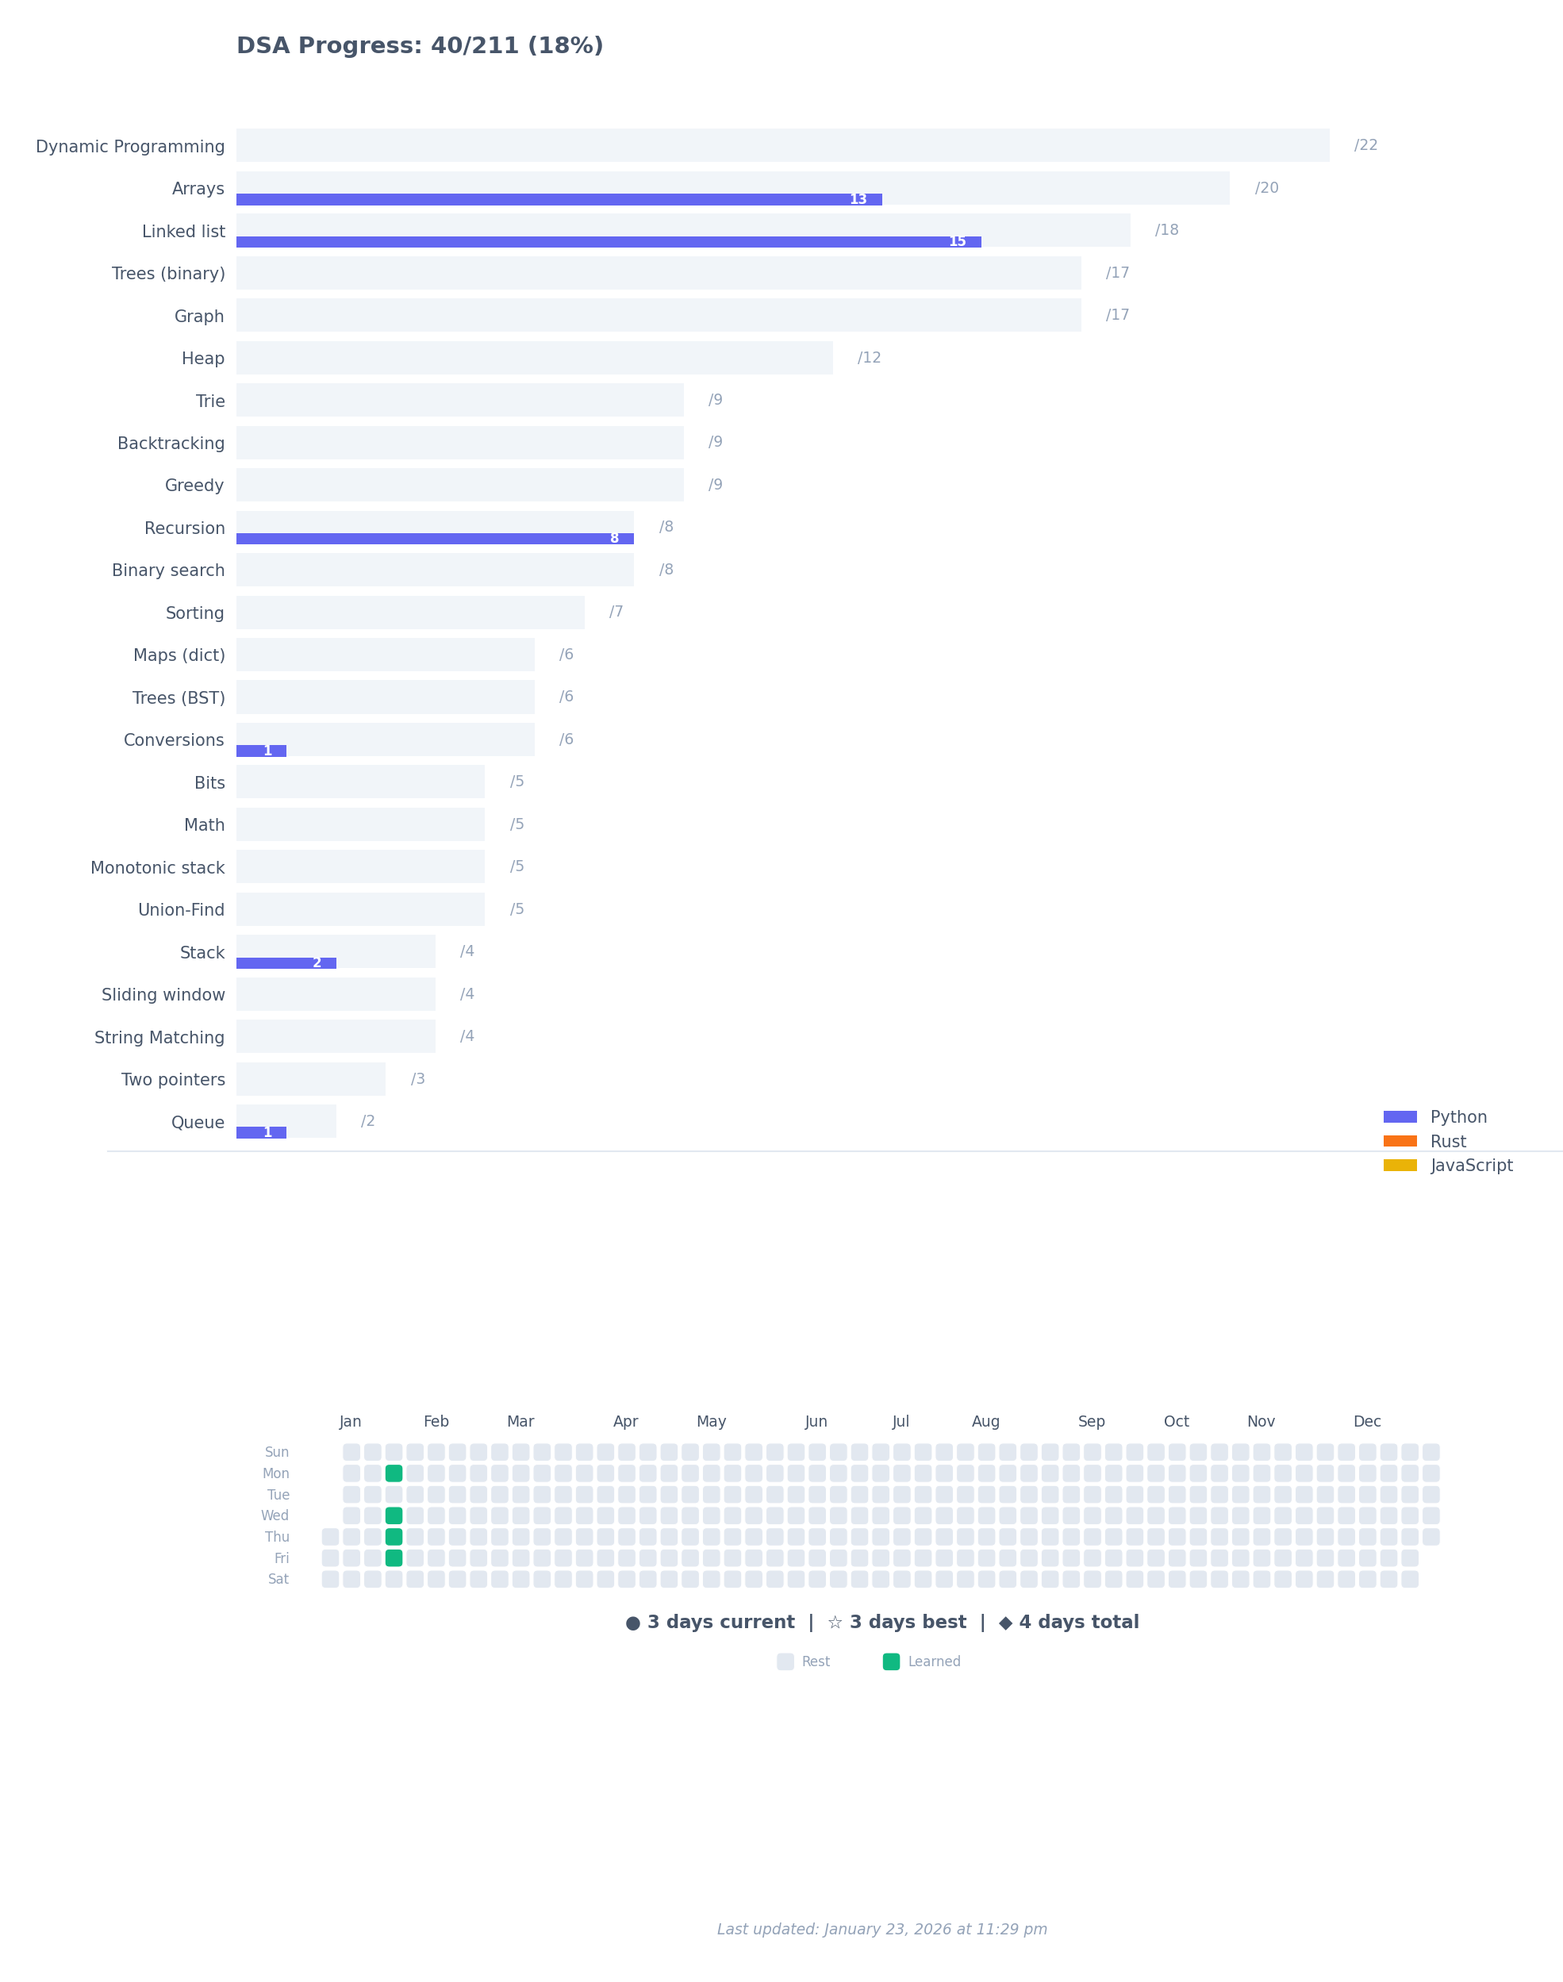
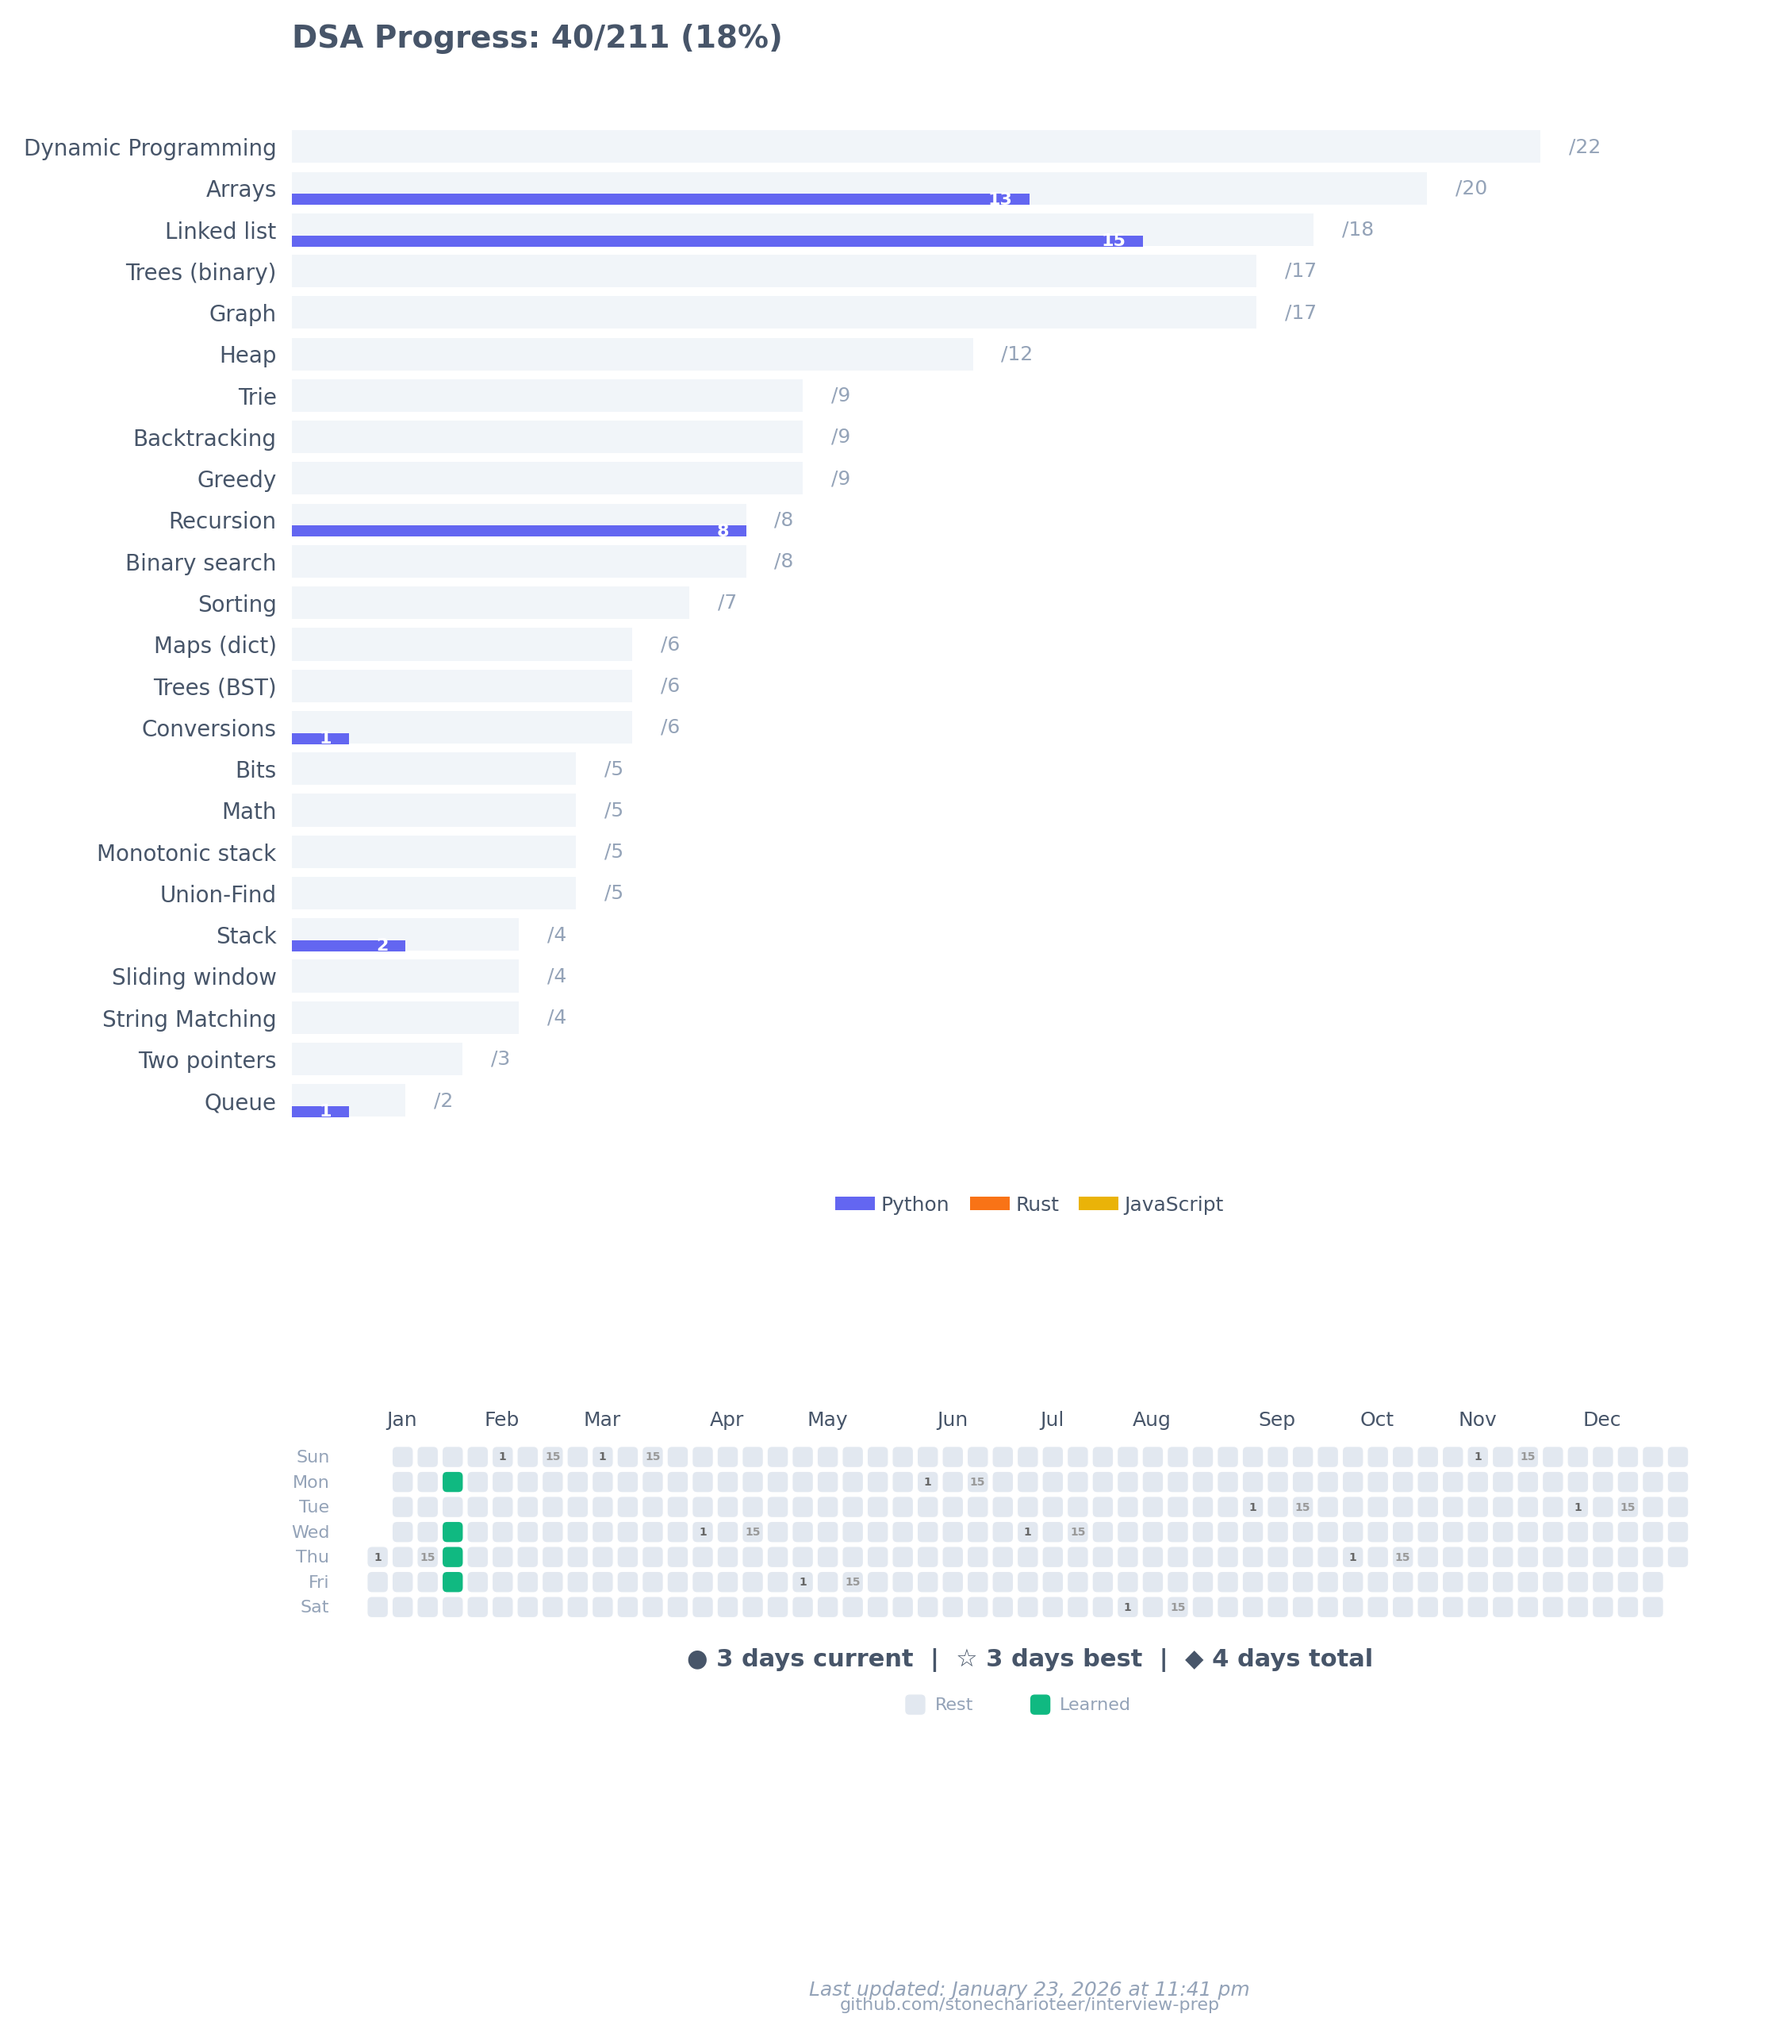
feat: add progress image and script

diff --git a/scripts/progress_calendar.py b/scripts/progress_calendar.py
@@ -140,11 +140,11 @@ def generate_progress_chart(topics: dict, commit_dates: set, output_path: Path, 
     rust_done = [t[1]["rust"] for t in sorted_topics]
     js_done = [t[1]["js"] for t in sorted_topics]
 
-    # Create figure
-    fig = plt.figure(figsize=(14, max(14, len(topic_names) * 0.6 + 6)))
+    # Create figure - tighter layout
+    fig = plt.figure(figsize=(12, max(12, len(topic_names) * 0.45 + 5)))
     fig.patch.set_facecolor("white")
 
-    gs = fig.add_gridspec(3, 1, height_ratios=[len(topic_names) * 1.4, 10, 1], hspace=0.4)
+    gs = fig.add_gridspec(3, 1, height_ratios=[len(topic_names) * 1.2, 19, 0.8], hspace=0.08)
     ax1 = fig.add_subplot(gs[0])
     ax2 = fig.add_subplot(gs[1])
     ax3 = fig.add_subplot(gs[2])
@@ -191,9 +191,10 @@ def generate_progress_chart(topics: dict, commit_dates: set, output_path: Path, 
         spine.set_visible(False)
     ax1.tick_params(left=False, bottom=False, labelbottom=False)
 
-    # Legend
-    ax1.legend(loc="lower right", frameon=False, fontsize=10,
-               labelcolor=PALETTE["text"])
+    # Legend - horizontal below the bars
+    ax1.legend(loc="upper center", bbox_to_anchor=(0.5, -0.01),
+               ncol=3, frameon=False, fontsize=9,
+               labelcolor=PALETTE["text"], handletextpad=0.3, columnspacing=1)
 
     # Title
     total_exercises = sum(totals)
@@ -203,10 +204,6 @@ def generate_progress_chart(topics: dict, commit_dates: set, output_path: Path, 
     title = f"DSA Progress: {total_py}/{total_exercises} ({pct}%)"
     ax1.set_title(title, fontsize=14, fontweight="bold", color=PALETTE["text"],
                   pad=15, loc="left")
-
-    # Horizontal divider line
-    ax1.axhline(y=y_pos[-1] + 1, color=PALETTE["inactive"], linewidth=1,
-                xmin=-0.1, xmax=1.1, clip_on=False)
 
     # ============ MIDDLE: Habit Tracker Calendar ============
     ax2.set_facecolor("white")
@@ -218,6 +215,9 @@ def generate_progress_chart(topics: dict, commit_dates: set, output_path: Path, 
     current_date = start_date
     month_positions = {}
 
+    # Track dates for adding day-of-month markers
+    date_markers = []  # (week, day, day_of_month)
+
     for week in range(53):
         for day in range(7):
             if current_date.year == year:
@@ -227,6 +227,10 @@ def generate_progress_chart(topics: dict, commit_dates: set, output_path: Path, 
 
                 if current_date.day <= 7 and day == 0:
                     month_positions[current_date.month] = week
+
+                # Mark 1st and 15th of each month for reference
+                if current_date.day == 1 or current_date.day == 15:
+                    date_markers.append((week, day, current_date.day))
 
                 rect = mpatches.FancyBboxPatch(
                     (week, 6 - day), 0.85, 0.85,
@@ -239,8 +243,14 @@ def generate_progress_chart(topics: dict, commit_dates: set, output_path: Path, 
 
             current_date += timedelta(days=1)
 
+    # Add date markers (1st and 15th)
+    for week, day, day_num in date_markers:
+        ax2.text(week + 0.42, 6 - day + 0.42, str(day_num),
+                 ha="center", va="center", fontsize=5,
+                 color="#666" if day_num == 1 else "#999", fontweight="bold")
+
     # Set limits to center the calendar (53 weeks = 0-52)
-    ax2.set_xlim(-4, 57)
+    ax2.set_xlim(-3, 56)
     ax2.set_ylim(-5, 8.5)
     ax2.set_aspect("equal")
     ax2.axis("off")
@@ -290,18 +300,22 @@ def generate_progress_chart(topics: dict, commit_dates: set, output_path: Path, 
     ax2.text(legend_x + 6.2, legend_y, "Learned", ha="left", va="center",
              fontsize=8, color=PALETTE["text_light"])
 
-    # ============ BOTTOM: Timestamp ============
+    # ============ BOTTOM: Timestamp and repo link ============
     ax3.set_facecolor("white")
     ax3.axis("off")
 
     timestamp = format_timestamp()
-    ax3.text(0.5, 0.5, f"Last updated: {timestamp}",
+    ax3.text(0.5, 0.7, f"Last updated: {timestamp}",
              ha="center", va="center", fontsize=9,
              color=PALETTE["text_light"], style="italic",
              transform=ax3.transAxes)
+    ax3.text(0.5, 0.2, "github.com/stonecharioteer/interview-prep",
+             ha="center", va="center", fontsize=8,
+             color=PALETTE["text_light"],
+             transform=ax3.transAxes)
 
-    fig.savefig(output_path, dpi=150, bbox_inches="tight",
-                facecolor="white", edgecolor="none", pad_inches=0.3)
+    fig.savefig(output_path, dpi=200, bbox_inches="tight",
+                facecolor="white", edgecolor="none", pad_inches=0.15)
     plt.close(fig)
 
 
